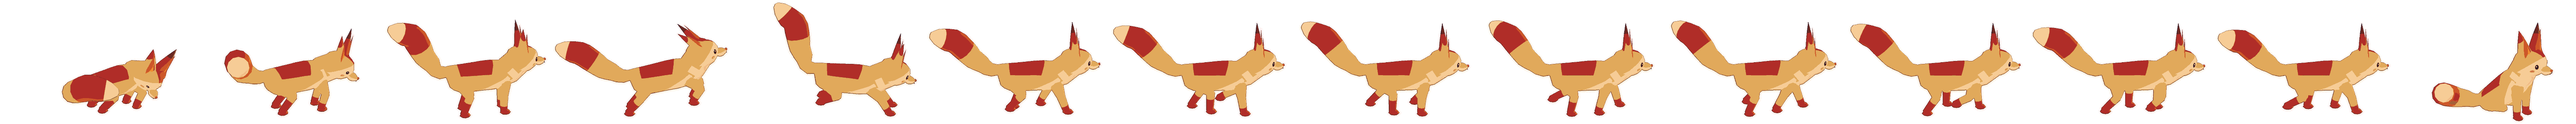
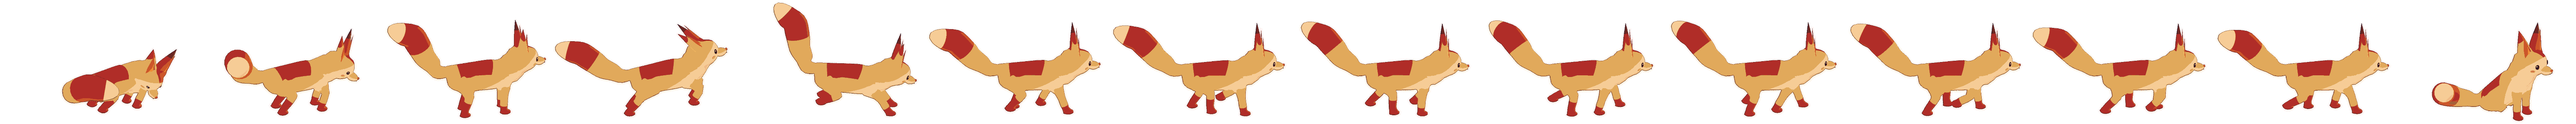
feat(gate): re-render the Kinako frames from the continuous skin
The frames now come from the walker.glb of #63, with the same lab queries.

diff --git a/index.html b/index.html
@@ -126,7 +126,7 @@
       }
       /* The soft first paint copy of the unlit art. It hides once the sharp layers are in. */
       .ga-first {
[2 lines of base64/hex data omitted]
       }
       #gate-art.is-sharp .ga-first {
         opacity: 0;
@@ -159,7 +159,7 @@
         left: -6%;
         top: -22.85%;
         width: 47.7%;
-        aspect-ratio: 440 / 297;
+        aspect-ratio: 440 / 298;
       }
       #gate-art.is-open .ga-kinako {
         opacity: 0;
